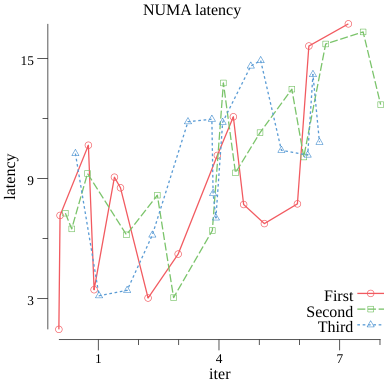
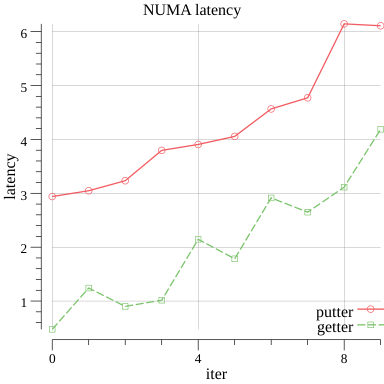
Add plot

diff --git a/numa/numa.go b/numa/numa.go
@@ -41,7 +41,7 @@ func randSeq(n int) []byte {
 	return b
 }
 
-func TimeTrack(start time.Time, ch chan) {
+func TimeTrack(start time.Time, ch chan time.Duration) {
 	elapsed := time.Since(start)
 
 	// Skip this function, and fetch the PC and file for its parent.
@@ -54,7 +54,7 @@ func TimeTrack(start time.Time, ch chan) {
 	runtimeFunc := regexp.MustCompile(`^.*\.(.*)$`)
 	name := runtimeFunc.ReplaceAllString(funcObj.Name(), "$1")
 
-//	fmt.Println(fmt.Sprintf("%s took %s", name, elapsed))
+	fmt.Println(fmt.Sprintf("%s took %s", name, elapsed))
 	ch <- elapsed
 }
 
@@ -63,7 +63,7 @@ func setAffinity(cpuID int) {
 	C.lock_thread(C.int(cpuID))
 }
 
-func putter(wg *sync.WaitGroup, id int, h hashtable.HashTable, lock bool, ch chan) {
+func putter(wg *sync.WaitGroup, id int, h hashtable.HashTable, lock bool, ch chan time.Duration) {
 	defer wg.Done()
 	defer TimeTrack(time.Now(), ch)
 
@@ -80,7 +80,7 @@ func putter(wg *sync.WaitGroup, id int, h hashtable.HashTable, lock bool, ch cha
 	}
 }
 
-func getter(wg *sync.WaitGroup, id int, h hashtable.HashTable, lock bool, ch chan) {
+func getter(wg *sync.WaitGroup, id int, h hashtable.HashTable, lock bool, ch chan time.Duration) {
 	defer wg.Done()
 	defer TimeTrack(time.Now(), ch)
 
@@ -90,15 +90,14 @@ func getter(wg *sync.WaitGroup, id int, h hashtable.HashTable, lock bool, ch cha
 
 	fmt.Printf("getter: %d, CPU: %d\n", id, C.sched_getcpu())
 
-	for i := 0; i <= 3000000; i++ {
+	for i := 0; i <= 30000; i++ {
 		rand.Seed(time.Now().UnixNano())
 		h.Get(rand.Intn(1000000))
 	}
-//	h.Display()
+	//	h.Display()
 }
 
 func main() {
-	var wg sync.WaitGroup
 
 	/* plot creation */
 	p, err := plot.New()
@@ -110,40 +109,12 @@ func main() {
 	p.Y.Label.Text = "latency"
 	p.Add(plotter.NewGrid())
 
-	h := hashtable.CreateHashTable()
-
-	/* Global state */
-	runtime.GOMAXPROCS(40)
-	fmt.Printf("# of CPUs: %d\n", runtime.NumCPU())
-	lock := true
-
-	getter_time := make(chan string)
-	putter_time := make(chan string)
-
 	/* Test n times */
-	for n := 0 ; n < 2; n++ {
-		/* putter start */
-		wg.Add(1)
-		go putter(&wg, 0, h, lock, putter_time)
-		wg.Wait()
-
-		elapsed := <-putter_time
-		fmt.Println("putter elapsed: ", elapsed)
-
-		/* getter start */
-		wg.Add(1)
-		go getter(&wg, 15, h, lock, getter_time)
-		wg.Wait()
-
-		elapsed := <-getter_time
-		fmt.Println("getter elapsed: ", elapsed)
-	}
-
+	putter_pts, getter_pts := testNTime(10)
 
 	err = plotutil.AddLinePoints(p,
-		"First", randomPoints(15),
-		"Second", randomPoints(15),
-		"Third", randomPoints(15))
+		"putter", putter_pts,
+		"getter", getter_pts)
 	if err != nil {
 		panic(err)
 	}
@@ -154,16 +125,38 @@ func main() {
 	}
 }
 
-// randomPoints returns some random x, y points.
-func randomPoints(n int) plotter.XYs {
-	pts := make(plotter.XYs, n)
-	for i := range pts {
-		if i == 0 {
-			pts[i].X = rand.Float64()
-		} else {
-			pts[i].X = pts[i-1].X + rand.Float64()
-		}
-		pts[i].Y = pts[i].X + 10*rand.Float64()
+// run test N times and returns x, y points.
+func testNTime(n int) (plotter.XYs, plotter.XYs) {
+	getter_pts := make(plotter.XYs, n)
+	putter_pts := make(plotter.XYs, n)
+	var wg sync.WaitGroup
+
+	/* Global state */
+	runtime.GOMAXPROCS(40)
+	fmt.Printf("# of CPUs: %d\n", runtime.NumCPU())
+	lock := true
+	h := hashtable.CreateHashTable()
+
+	/* channel */
+	getter_time := make(chan time.Duration)
+	putter_time := make(chan time.Duration)
+
+	for i := range getter_pts {
+		/* putter start */
+		wg.Add(1)
+		go putter(&wg, 0, h, lock, putter_time)
+		putter_elapsed := <-putter_time
+		putter_pts[i].Y = float64(putter_elapsed) / float64(time.Second)
+		putter_pts[i].X = float64(i)
+		wg.Wait()
+
+		/* getter start */
+		wg.Add(1)
+		go getter(&wg, 1, h, lock, getter_time)
+		getter_elapsed := <-getter_time
+		getter_pts[i].Y = float64(getter_elapsed) / float64(time.Second)
+		getter_pts[i].X = float64(i)
+		wg.Wait()
 	}
-	return pts
+	return putter_pts, getter_pts
 }
